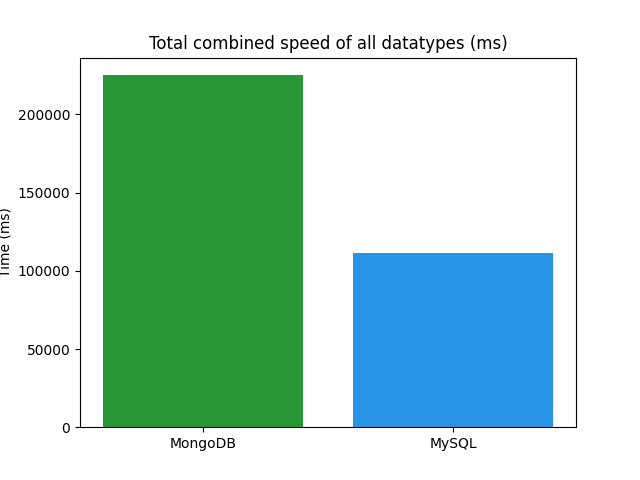
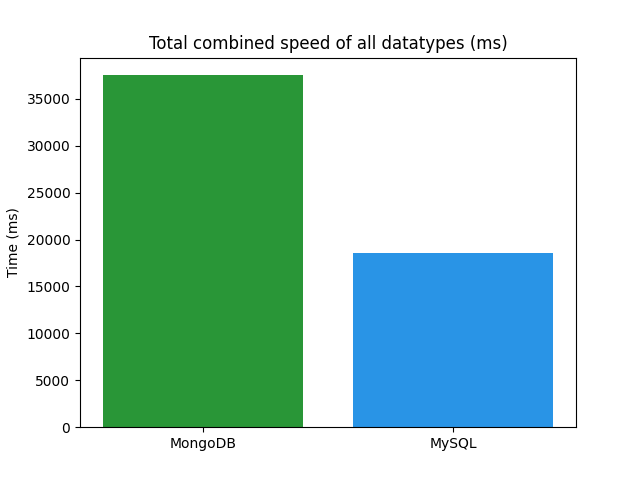
changed calculation of total

diff --git a/statistics/final study/generate.py b/statistics/final study/generate.py
@@ -178,20 +178,20 @@ def getTotal():
         sum_mongodb += int(total_mongodb[0])
         sum_mysql += int(total_mysql[0])
 
-    print("Sum for MongoDB: {}ms".format(str(sum_mongodb)))
-    print("Sum for MySQL: {}ms".format(str(sum_mysql)))
+    print("Sum for MongoDB: {}ms".format(str(sum_mongodb / len(points_mongodb))))
+    print("Sum for MySQL: {}ms".format(str(sum_mysql / len(points_mysql))))
 
     # Create bar diagram
-    plt.title("Total combined speed of all datatypes (ms)")
+    plt.title("Avarage speed of all datatypes combined (ms)")
     plt.ylabel("Time (ms)")
-    plt.bar(["MongoDB", "MySQL"], [sum_mongodb, sum_mysql], color = ["#299637", "#2994e6"])
+    plt.bar(["MongoDB", "MySQL"], [sum_mongodb / len(points_mongodb), sum_mysql / len(points_mysql)], color = ["#299637", "#2994e6"])
     plt.savefig("./figures/total.png")
 
-getAnova()
-getMeans()
+# getAnova()
+# getMeans()
 getTotal()
 
-generateLineDiagram("mongodb")
-generateLineDiagram("mysql")
-generateBarDiagram("mongodb")
-generateBarDiagram("mysql")
+# generateLineDiagram("mongodb")
+# generateLineDiagram("mysql")
+# generateBarDiagram("mongodb")
+# generateBarDiagram("mysql")
